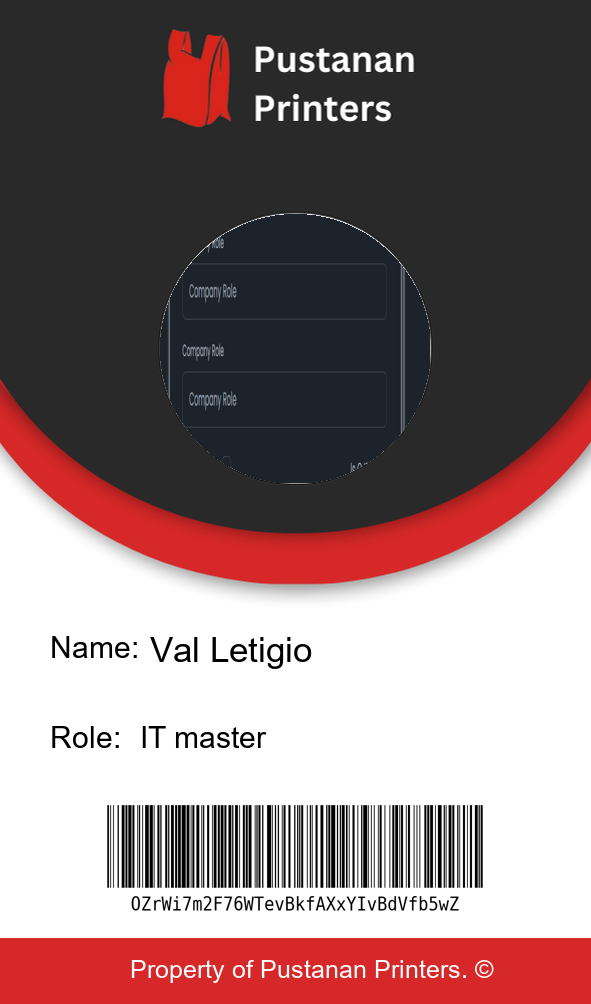
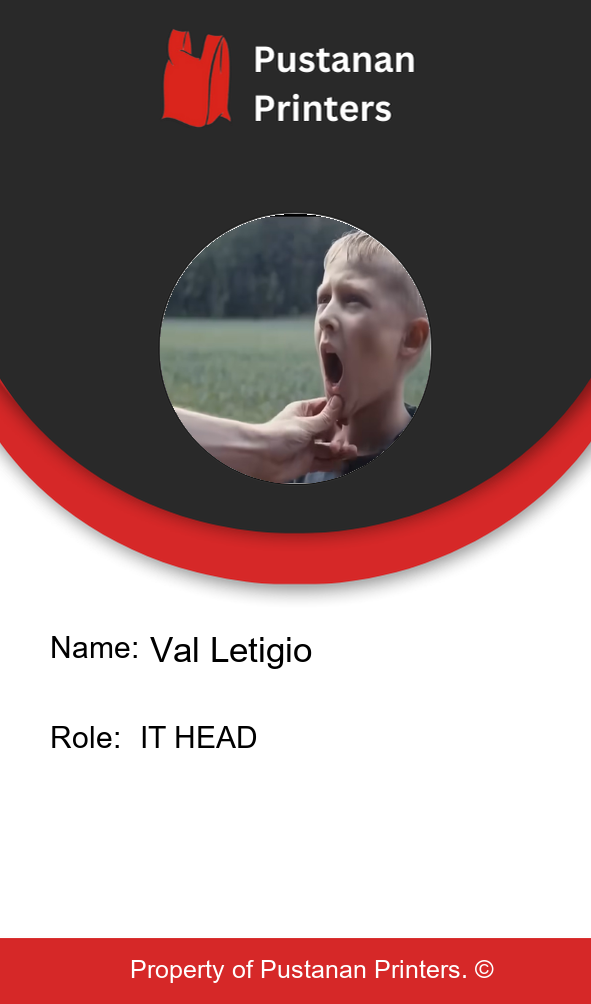
unfinished signature on id

Changed region(s): [[0.2741, 0.2161, 0.731, 0.494], [0.1827, 0.8028, 0.8223, 0.9263], [0.2741, 0.7102, 0.4569, 0.741]]

diff --git a/Server/generateEmployeeID.py b/Server/generateEmployeeID.py
@@ -177,28 +177,48 @@ class EmployeeIDCard(BaseModel):
         #     (170, 170))
         # background.paste(qr_code_img, (215, 680))
 
+        print(employeeSignature, 'employeeSignature')
+
+        if employeeSignature:
+            try:
+                if employeeSignature.startswith("http"):
+                    response = requests.get(employeeSignature)
+                    response.raise_for_status()
+                    signature = Image.open(BytesIO(response.content))
+
+                    if signature.mode in ('RGBA', 'LA'):
+                        background_layer = Image.new('RGB', signature.size, (255, 255, 255))
+                        background_layer.paste(signature, mask=signature.split()[3])
+                        signature = background_layer
+
+                    signature = signature.resize((200, 100))
+                else:
+                    signature = Image.open(employeeSignature).resize((200, 100))
+
+                background.paste(signature, (80, 800))
+            except Exception as e:
+                print(f"Error loading signature: {e}")
+
         draw.text((130, 955), f"Property of Pustanan Printers. ©", fill="white", font=ImageFont.truetype(font_path, size=25))
 
-        barcode = Code128(ref_id, writer=ImageWriter())
-        options = {
-            'module_width': 0.5,
-            'module_height': 5.0,
-            'quiet_zone': 1.0,
-            'font_size': 0,
-            'text_distance': 0.0,
-            'background': 'white',
-            'foreground': 'black',
-            'write_text': False
-        }
-        barcode.save("Server/IDBarcodes/"+f"{name}")
-        barcode_img = Image.open(f"Server/IDBarcodes/{name}.png").resize((400, 130))
-        background.paste(barcode_img, (95, 800))
+        # barcode = Code128(ref_id, writer=ImageWriter())
+        # options = {
+        #     'module_width': 0.5,
+        #     'module_height': 5.0,
+        #     'quiet_zone': 1.0,
+        #     'font_size': 0,
+        #     'text_distance': 0.0,
+        #     'background': 'white',
+        #     'foreground': 'black',
+        #     'write_text': False
+        # }
+        # barcode.save("Server/IDBarcodes/"+f"{name}")
+        # barcode_img = Image.open(f"Server/IDBarcodes/{name}.png").resize((400, 130))
+        # background.paste(barcode_img, (95, 800))
 
         directory = 'Server/EmployeeIDs/'
         if not os.path.exists(directory):
             os.makedirs(directory)
-
-        
 
         output_path = os.path.join(
             directory, f"{self.firstName+self.lastName}_id_card.png")
@@ -286,6 +306,7 @@ employee = {
     "isRegular": False,
     "companyRole": "IT HEAD",
     "isOJT": True,
+    "employeeSignature": "https://firebasestorage.googleapis.com/v0/b/pustananemployeeprofile.firebasestorage.app/o/employees%2FValLetigio%2FemployeeSignature-53957-0?alt=media&token=0c9315d3-872b-4656-b563-915777ab4b05",
     "dailyWage": 800.50,
     "_version": 1,
 }
